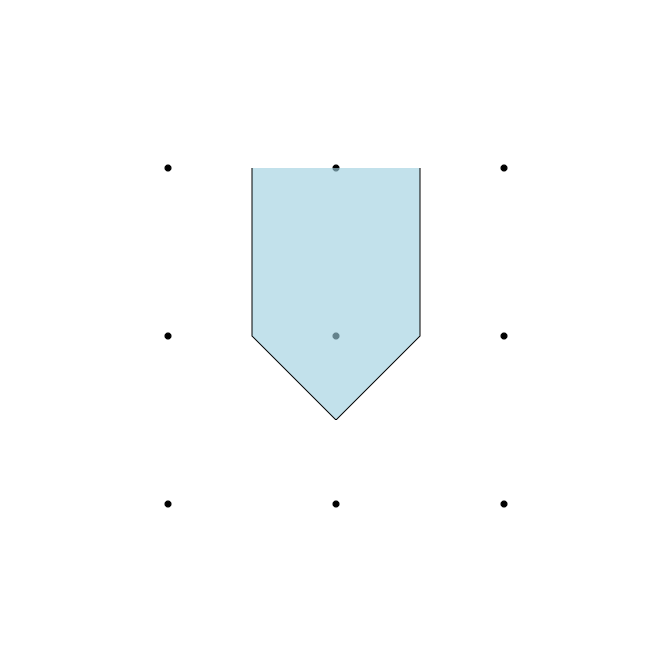
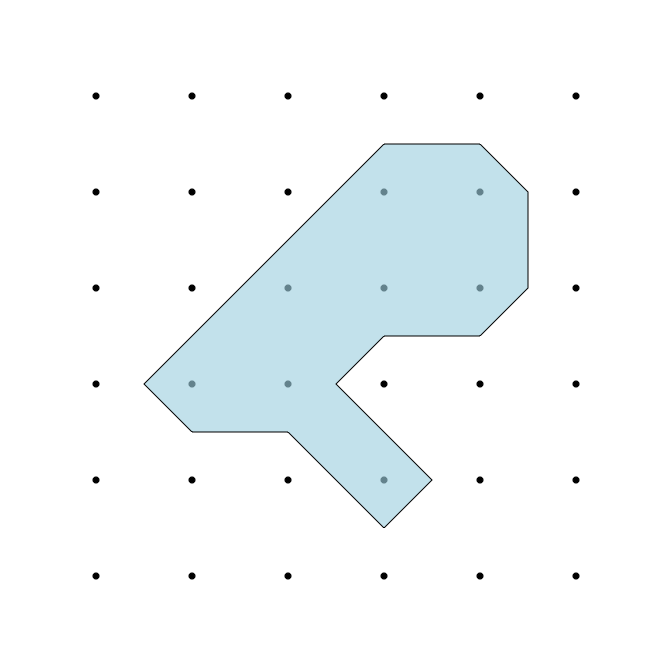
update readme

diff --git a/README.md b/README.md
@@ -32,9 +32,12 @@ plot_iso <- function(m, vlo, vhi) {
   grid.polyline(df2$x, df2$y, df2$id)
 }
 
-m <- matrix(c(0, 1, 0,
-              0, 1, 0,
-              0, 0, 0), 3, 3, byrow = TRUE)
+m <- matrix(c(0, 0, 0, 0, 0, 0,
+              0, 0, 0, 1, 1, 0,
+              0, 0, 1, 1, 1, 0,
+              0, 1, 1, 0, 0, 0,
+              0, 0, 0, 1, 0, 0,
+              0, 0, 0, 0, 0, 0), 6, 6, byrow = TRUE)
 plot_iso(m, 0.5, 1.5)
 ```
 
@@ -42,8 +45,8 @@ plot_iso(m, 0.5, 1.5)
 
 ``` r
 
-m <- matrix(c(0, 0, 0, 0, 0, 0,
-              0, 0, 0, 1, 1, 0,
+m <- matrix(c(NA, NA, NA, 0, 0, 0,
+              NA, NA, NA, 1, 1, 0,
               0, 0, 1, 1, 1, 0,
               0, 1, 1, 0, 0, 0,
               0, 0, 0, 1, 0, 0,
@@ -79,7 +82,7 @@ for (i in seq_along(l)) {
 
 <img src="man/figures/README-volcano-1.png" width="75%" />
 
-Isolining is ~20% faster than `grDevices::contourLines()`, isobanding is
+Isolining is about as fast as `grDevices::contourLines()`, isobanding is
 about 2.5 times slower.
 
 ``` r
@@ -94,7 +97,7 @@ microbenchmark::microbenchmark(
 #>                               isolines(1:ncol(volcano), 1:nrow(volcano), volcano, 10 * (10:18))
 #>             isobands(1:ncol(volcano), 1:nrow(volcano), volcano, 10 * (9:17),      10 * (10:18))
 #>       min       lq     mean   median       uq       max neval
-#>  1.625307 1.769483 2.566982 2.109082 2.930211 10.644908   100
-#>  1.297890 1.382552 1.703192 1.632265 1.874349  2.769563   100
-#>  4.054031 4.398169 5.026563 4.775082 5.260982 10.153111   100
+#>  1.708694 1.856855 2.670190 2.040156 2.760775 10.056764   100
+#>  1.717886 1.824342 2.219387 1.986709 2.516435  3.553901   100
+#>  4.403163 4.784361 5.462273 5.123574 5.727923 11.602064   100
 ```
